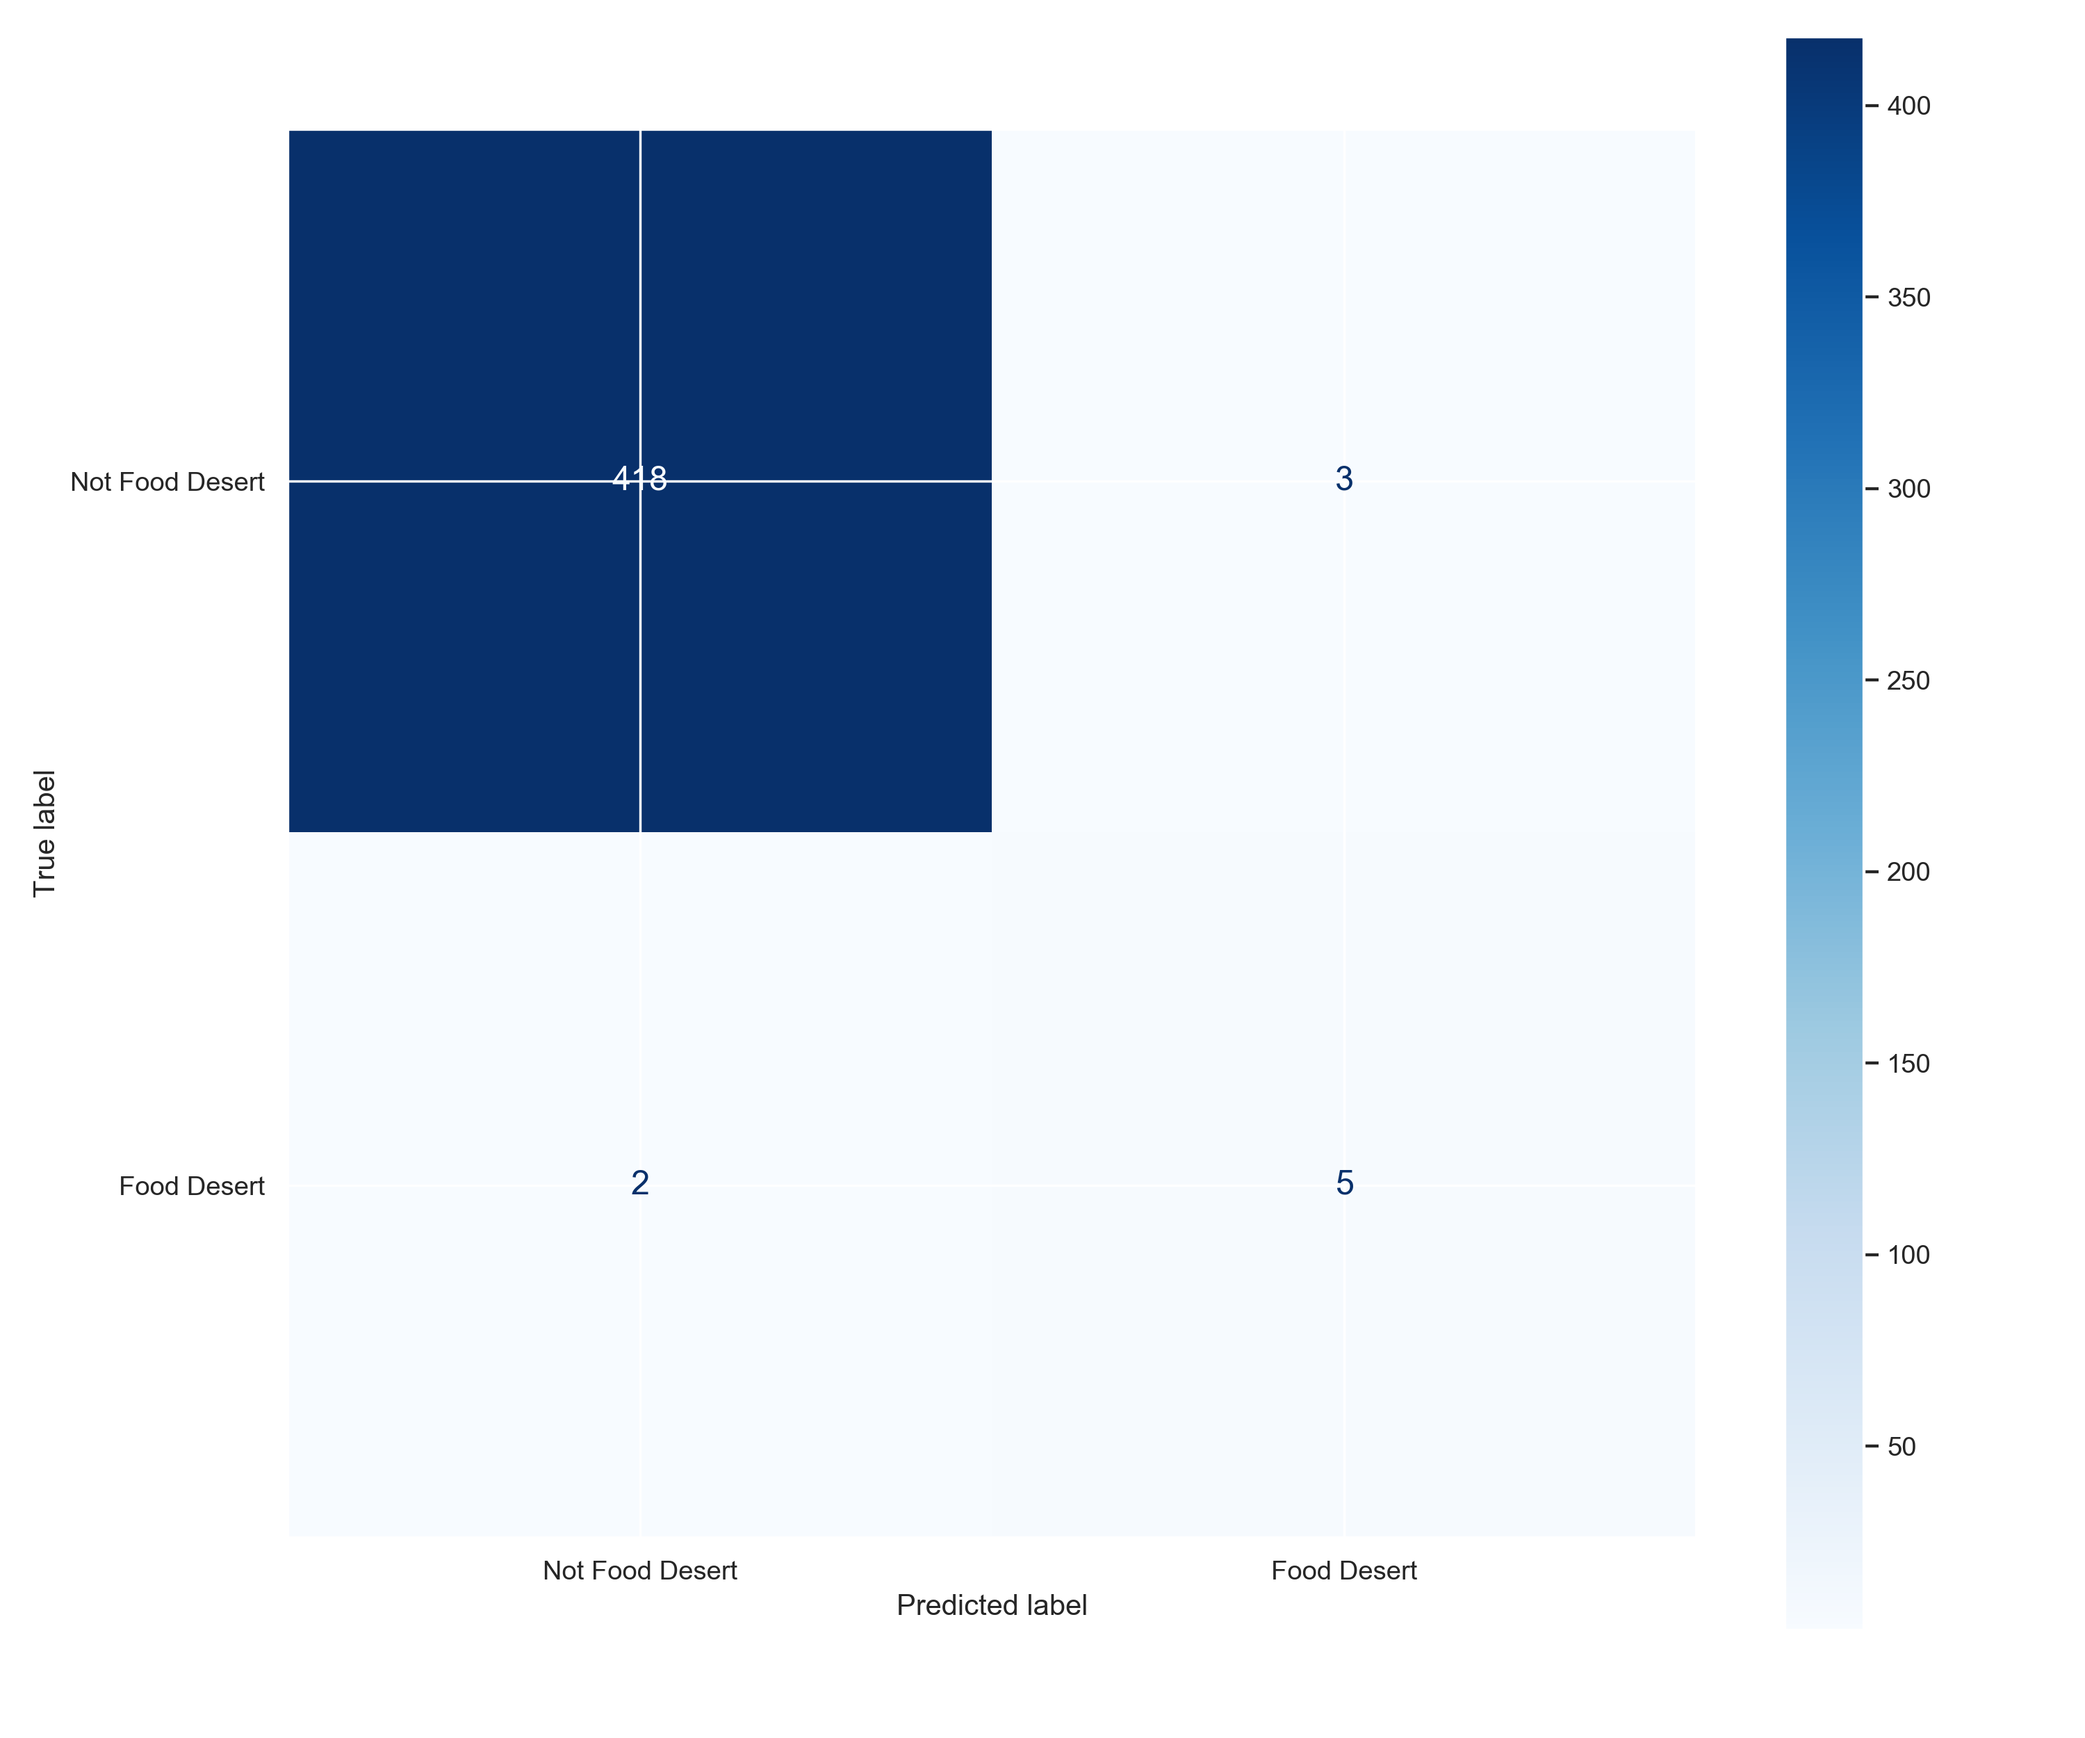
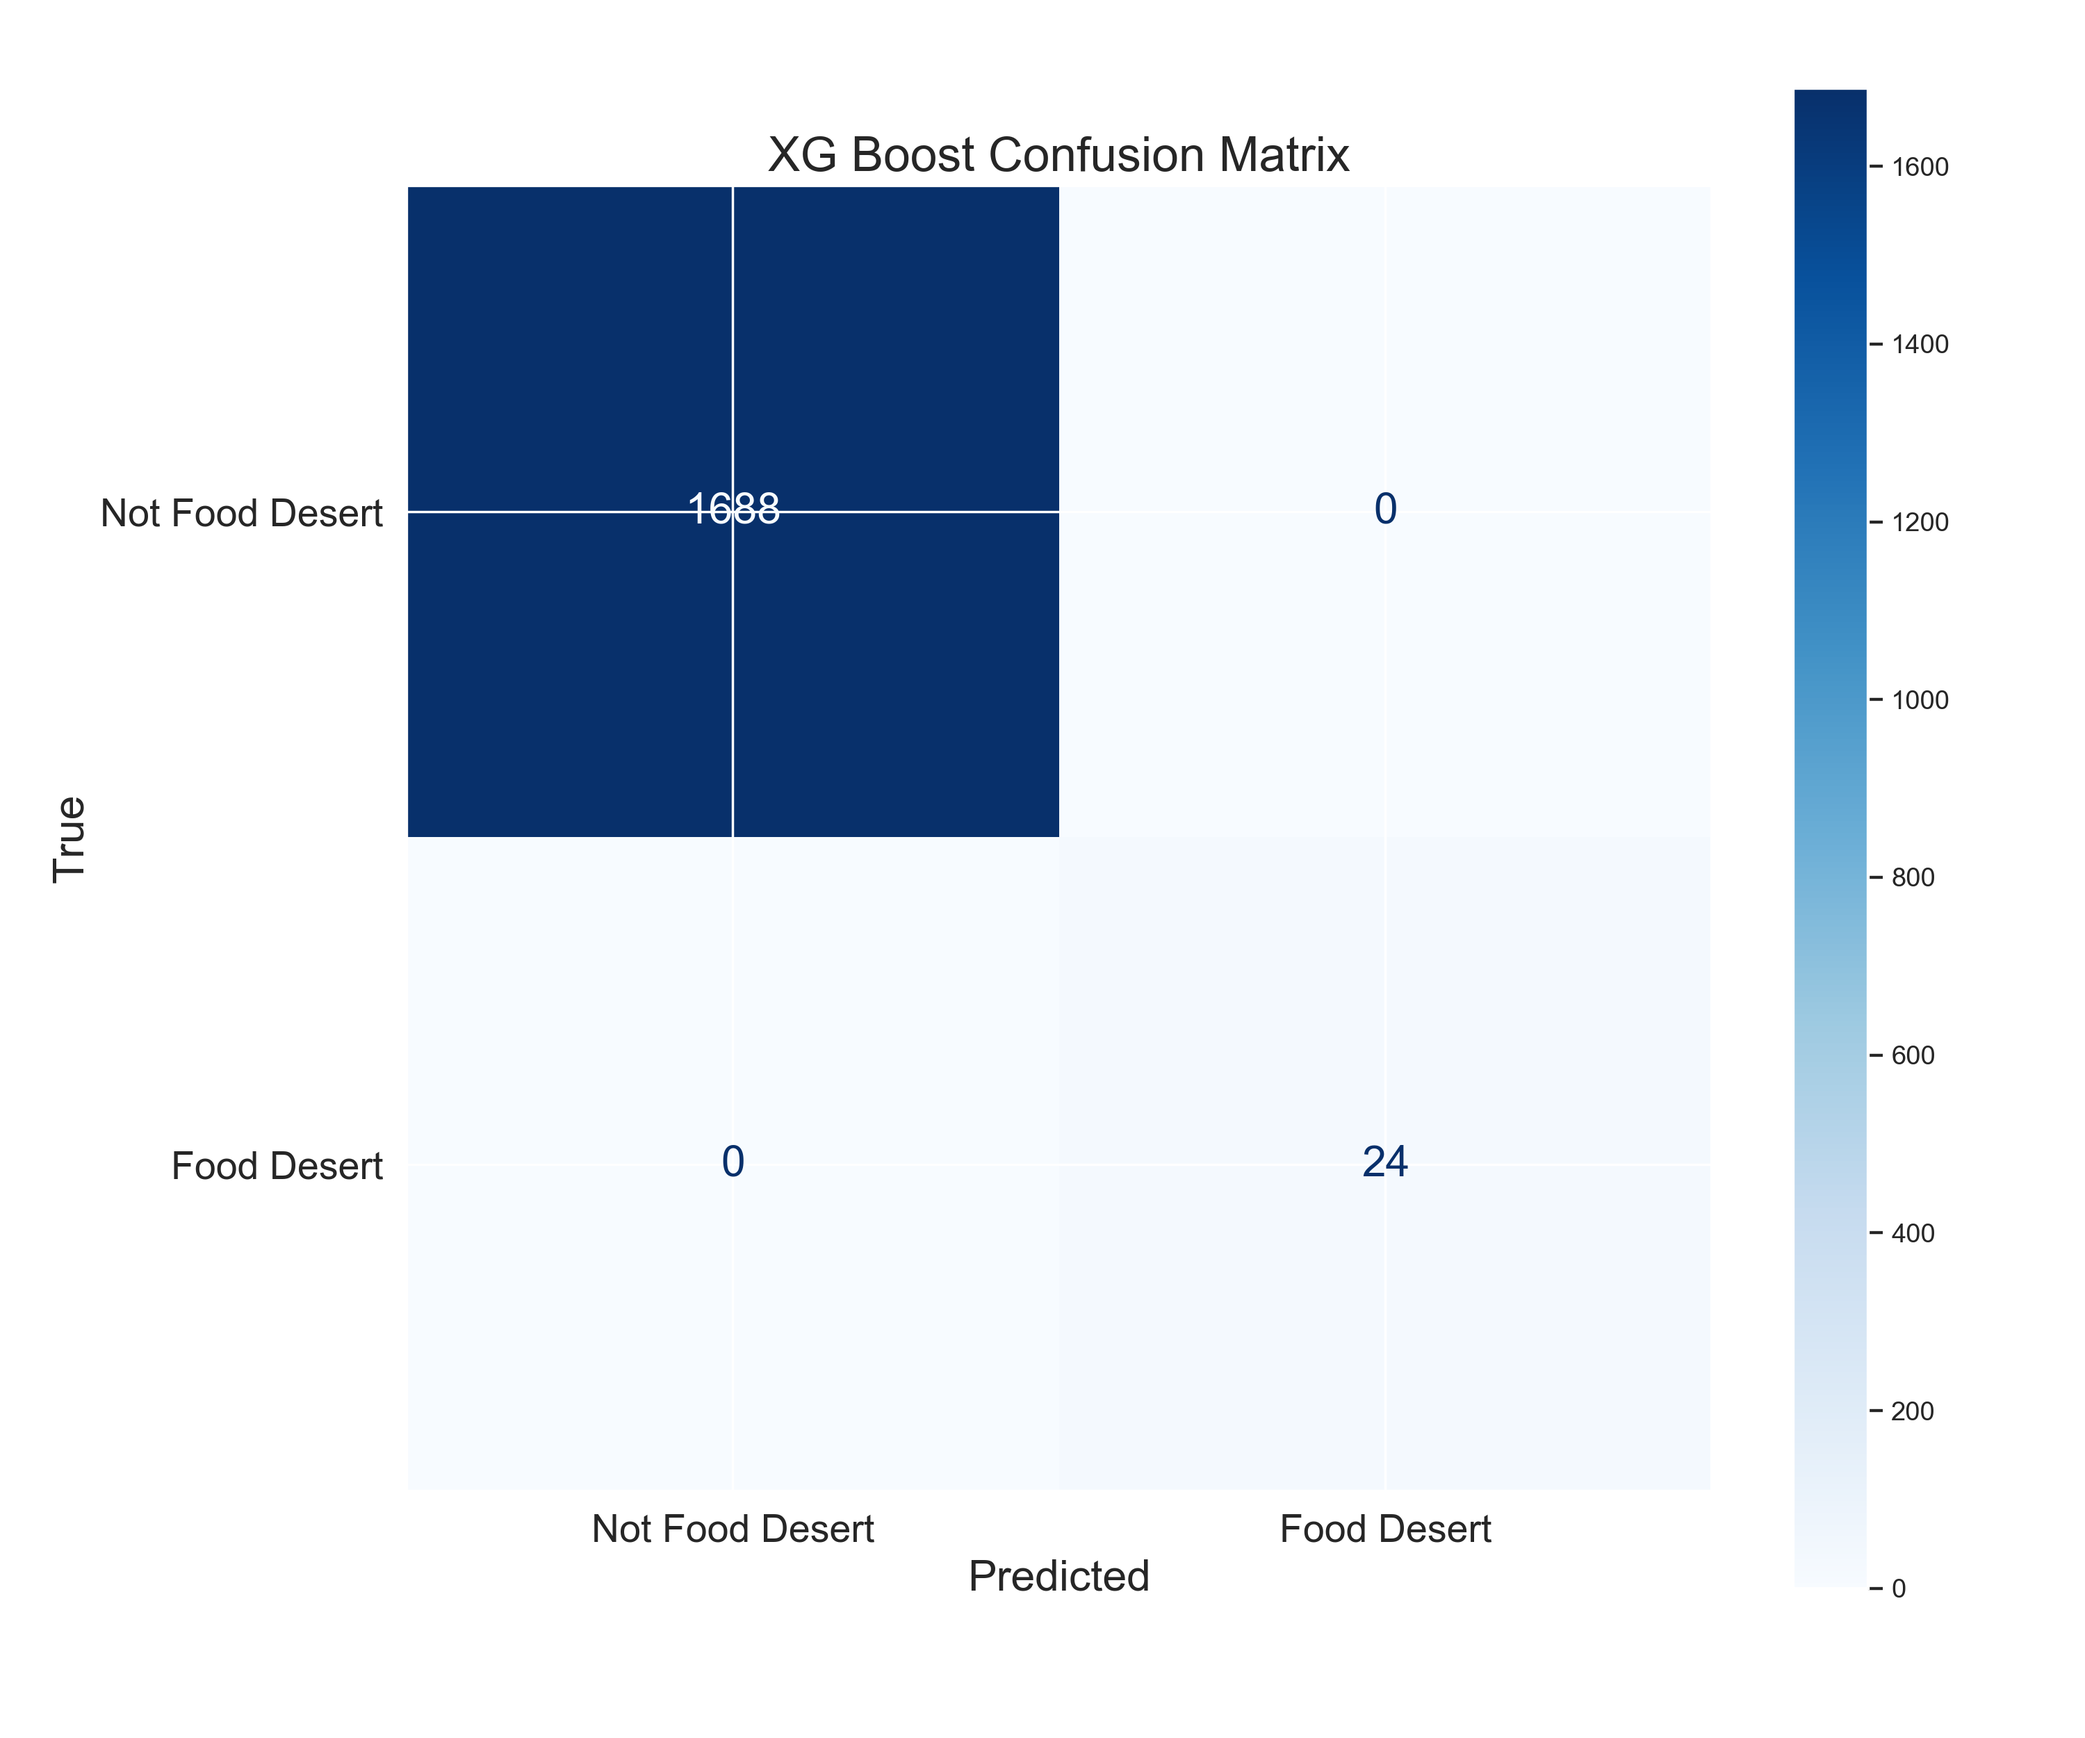
added functions for lmplot, confusion matrix, scoring metrics

diff --git a/src/modeling_functions.py b/src/modeling_functions.py
@@ -1,3 +1,65 @@
 #!/usr/bin/env python
 '''This file contains functions utilized within the Modeling Jupyter Notebook of the NYC Food Desert Predictor capstone 
 project for Flatiron School'''
+
+# import necessary packages
+import pandas as pd
+import numpy as np
+import os
+import pickle
+from collections import Counter
+
+# visualization packages
+import matplotlib.pyplot as plt
+import seaborn as sns
+
+# modeling
+import scipy.stats as stats
+from sklearn.model_selection import GridSearchCV
+from sklearn.model_selection import train_test_split
+from sklearn.feature_selection import RFECV
+from sklearn import metrics
+from sklearn.preprocessing import MinMaxScaler
+from sklearn.linear_model import LogisticRegression
+from sklearn.tree import DecisionTreeClassifier
+from sklearn.ensemble import RandomForestClassifier, VotingClassifier
+from xgboost import XGBRegressor
+import xgboost as xgb
+from xgboost import XGBClassifier
+from xgboost import plot_importance
+
+# import function from other module to save figures
+from .functions import save_fig
+
+# function that prints neat formatted scoring metrics for model scoring
+def get_model_scores(model, y_train, y_train_pred, y_test, y_test_pred, ):
+    '''Enter model type, y_train, y_train_pred, y_test, y_test_pred.
+    Returns modeling scores printed out in a consistent format'''
+    print('\033[1m' + 'Below are the scoring metrics for {} model'.format(model) + '\033[0m')
+    print('\n')
+print('Train {} Accuracy: {}'.format(model, metrics.accuracy_score(y_train, y_train_pred)))
+    print('Test {} Accuracy: {}'.format(model, metrics.accuracy_score(y_test, y_test_pred)))
+    print('\n')
+    print('Train {} F1: {}'.format(model, metrics.f1_score(y_train,y_train_pred)))
+    print('Test {} F1: {}'.format(model, metrics.f1_score(y_test,y_test_pred)))
+    print('\n')
+    print('Train {} Recall: {}'.format(model, metrics.recall_score(y_train, y_train_pred)))
+    print('Test {} Recall: {}'.format(model, metrics.recall_score(y_test, y_test_pred)))
+    print('\n')
+    print('Train {} Precision: {}'.format(model, metrics.precision_score(y_train, y_train_pred)))
+    print('Test {} Precision: {}'.format(model, metrics.precision_score(y_test, y_test_pred)))
+
+# function for plotting confusion matrix
+def confusion_matrix(estimator, X, y, title, display_labels=['Not Food Desert', 'Food Desert']):
+    '''Function that plots confusion matrix for model
+    Enter estimator, X, y, cmap
+    Display labels and font have defaults but can be altered'''
+    fig, ax = fig, ax = plt.subplots(figsize=(12, 10))
+    metrics.plot_confusion_matrix(estimator, X, y, 
+                              cmap=plt.cm.Blues, 
+                              display_labels=display_labels, 
+                              ax=ax)
+    ax.set_ylabel('True', fontdict={'fontsize':18})
+    ax.set_xlabel('Predicted', fontdict={'fontsize':18})
+    ax.tick_params(axis='both', which='major', labelsize=16)
+    plt.title(title, fontdict={'fontsize':20})

diff --git a/src/eda_functions.py b/src/eda_functions.py
@@ -146,5 +146,29 @@ def create_choropleth_map_points(df1, df2, col1, col2, cmap, title, ptcolor, vma
     save_fig(title.lower().replace(' ', '_'))
     plt.show()
 
+# function for creating lmplot
+def lmplot(data, x, y, xlabel, ylabel, title, height=12, aspect=1, theme='poster', target='LILATracts_halfAnd10',\
+          style='darkgrid'):
+    '''Creates lmplot to comepare two variables vs the target 
+    Enter dataframe, x, y, xlabel, ylabel, title.
+    Height and aspect have default values
+    Seaborn theme default poster, theme to darkgrid
+    Target default to LILATracts_halfAnd10'''
+    sns.set_style(style)
+    sns.set_theme(theme)
+    sns.lmplot(x=x, 
+               y=y,  
+               data=data,
+              height=12,
+              aspect=1,
+               legend_out=False,
+              hue=target)\
+        .set(ylabel=ylabel, 
+             xlabel=xlabel, 
+             title=title)\
+        ._legend.set_title('Target')
+    save_fig(title.lower().replace(' ', '_'))
+    plt.show();
+
 if __name__ == '__main__':
     _test()

diff --git a/src/__init__.py b/src/__init__.py
@@ -4,4 +4,5 @@ project for Flatiron School'''
 
 from .functions import save_fig
 from .eda_functions import cat_data, num_data, create_choropleth_map, rate_column,\
-    create_choropleth_map_points
+    create_choropleth_map_points, lmplot
+from .modeling_functions import *
